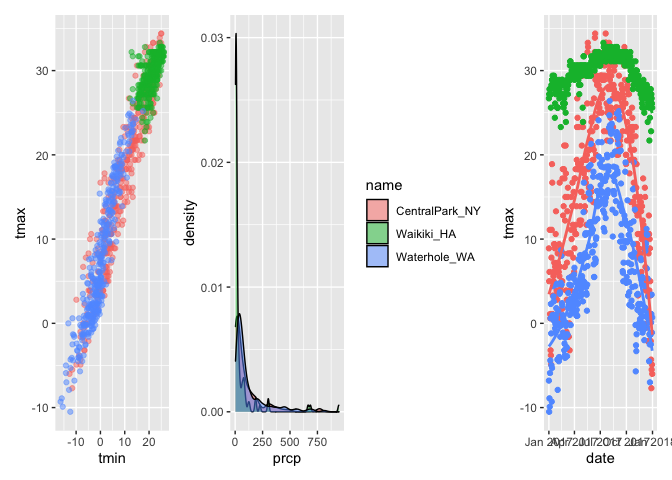
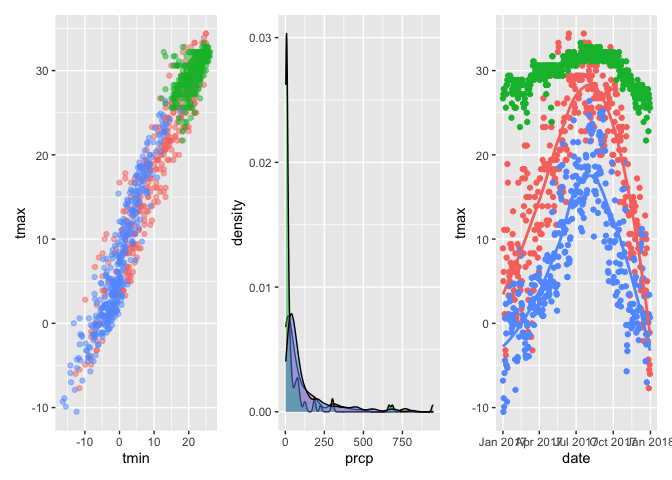
data manipulation as part of plotting

diff --git a/viz_2.md b/viz_2.md
@@ -314,7 +314,8 @@ prcp_dens_p =
   weather_df %>%
   filter(prcp > 0) %>% 
   ggplot(aes(x = prcp, fill = name)) +
-  geom_density(alpha = 0.5)
+  geom_density(alpha = 0.5) + 
+  theme(legend.position = "none")
 
 tmax_date_p = 
   weather_df %>% 
@@ -351,3 +352,57 @@ tmax_tmin_p + prcp_dens_p + tmax_date_p
     ## Warning: Removed 3 rows containing missing values (geom_point).
 
 ![](viz_2_files/figure-gfm/unnamed-chunk-12-2.png)<!-- -->
+
+``` r
+#3 rows, 3 panels
+tmax_tmin_p / prcp_dens_p / tmax_date_p
+```
+
+    ## Warning: Removed 15 rows containing missing values (geom_point).
+
+    ## `geom_smooth()` using method = 'loess' and formula 'y ~ x'
+
+    ## Warning: Removed 3 rows containing non-finite values (stat_smooth).
+
+    ## Warning: Removed 3 rows containing missing values (geom_point).
+
+![](viz_2_files/figure-gfm/unnamed-chunk-12-3.png)<!-- -->
+
+\#\#Data Manipulation
+
+Control your factors:
+
+``` r
+#reorder the plots by names
+weather_df %>% 
+  mutate(
+    name = factor(name),
+    name = forcats::fct_relevel(name, c("Waikiki_HA"))
+  ) %>% 
+  ggplot(aes(x = name, y = tmax, fill = name)) +
+  geom_violin(alpha = 0.5)
+```
+
+    ## Warning: Removed 3 rows containing non-finite values (stat_ydensity).
+
+![](viz_2_files/figure-gfm/unnamed-chunk-13-1.png)<!-- -->
+
+What if I wanted densities for tmin and tmax simultaneously?
+
+``` r
+weather_df %>% 
+  pivot_longer(
+    tmax:tmin,
+    names_to = "observation",
+    values_to = "temperatures"
+  ) %>% 
+  ggplot(aes(x = temperatures, fill = observation)) +
+  geom_density(alpha = 0.5) + 
+  facet_grid(.~name)
+```
+
+    ## Warning: Removed 18 rows containing non-finite values (stat_density).
+
+![](viz_2_files/figure-gfm/unnamed-chunk-14-1.png)<!-- -->
+
+## 
